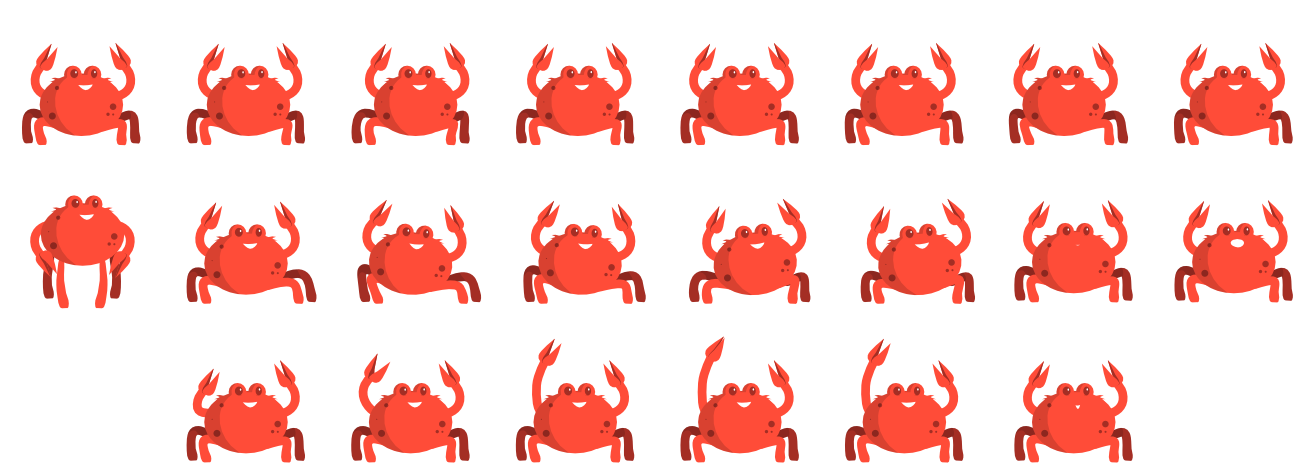
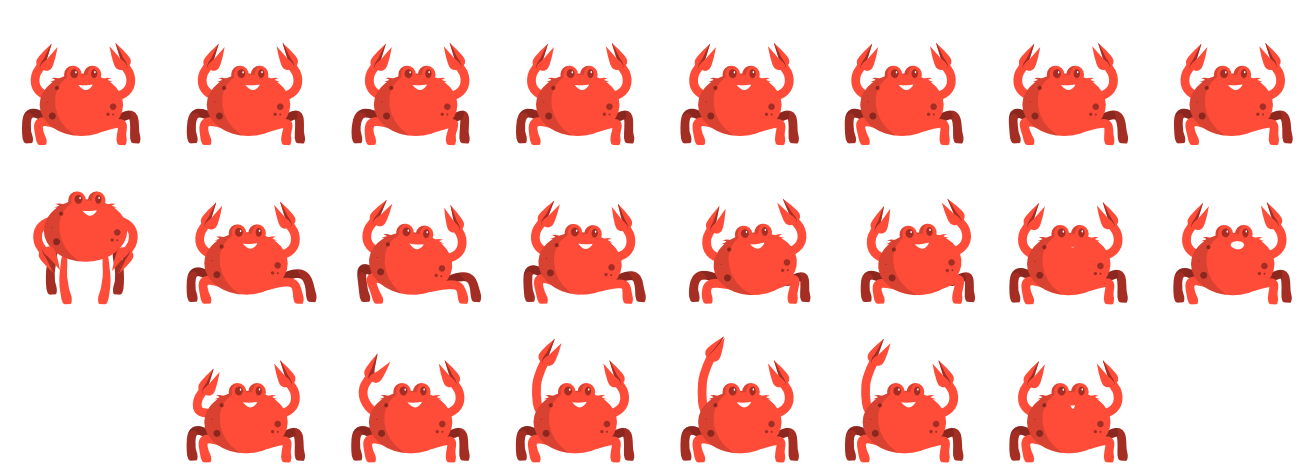
Mejorando la animación del cangrejo.

diff --git a/public/libs/pilasweb-extras.js b/public/libs/pilasweb-extras.js
@@ -43,7 +43,7 @@ var Cangrejo = (function (_super) {
         _super.call(this, x, y, { grilla: 'actores/actor.CangrejoAnimado.png', cantColumnas: 8, cantFilas: 3 });
         this.definirAnimacion("parado", [0, 1, 2, 3, 4, 5, 6, 7], 6, true);
         this.definirAnimacion("saltar", [8], 6);
-        this.definirAnimacion("hablar", [14, 15, 22, 15], 5);
+        this.definirAnimacion("hablar", [14, 15], 5);
     }
     return Cangrejo;
 }(ActorAnimado));

diff --git a/pilasweb-extras/actores/cangrejo.ts b/pilasweb-extras/actores/cangrejo.ts
@@ -7,7 +7,7 @@ class Cangrejo extends ActorAnimado {
     //this.definirAnimacion("correr", [9, 10, 11, 12, 13], 12);
     //this.definirAnimacion("recoger", [17, 18, 19, 20, 21, 21, 21, 19, 19], 6);
     this.definirAnimacion("saltar", [8], 6);
-    this.definirAnimacion("hablar", [14, 15, 22, 15], 5);
+    this.definirAnimacion("hablar", [14, 15], 5);
   }
 
 }
